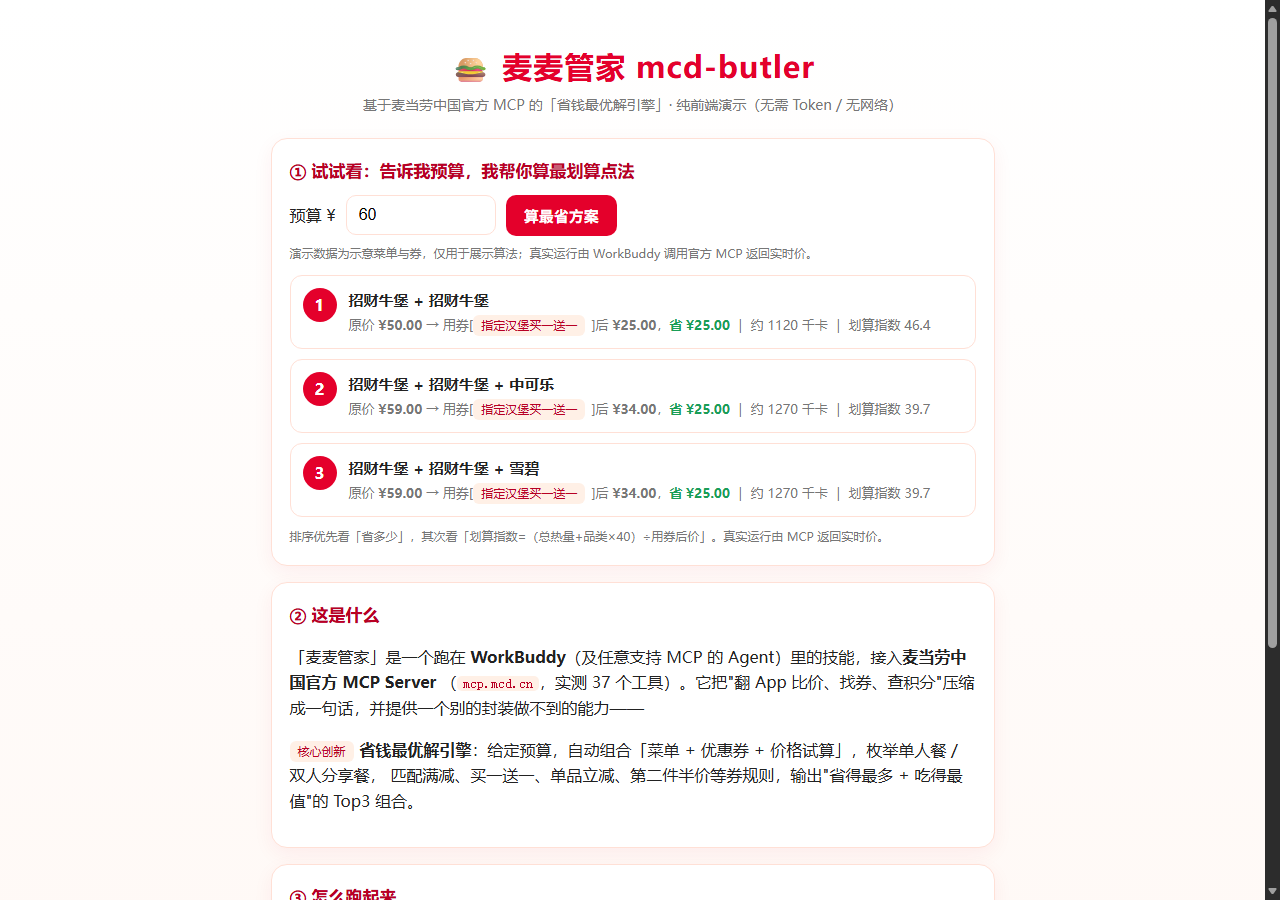
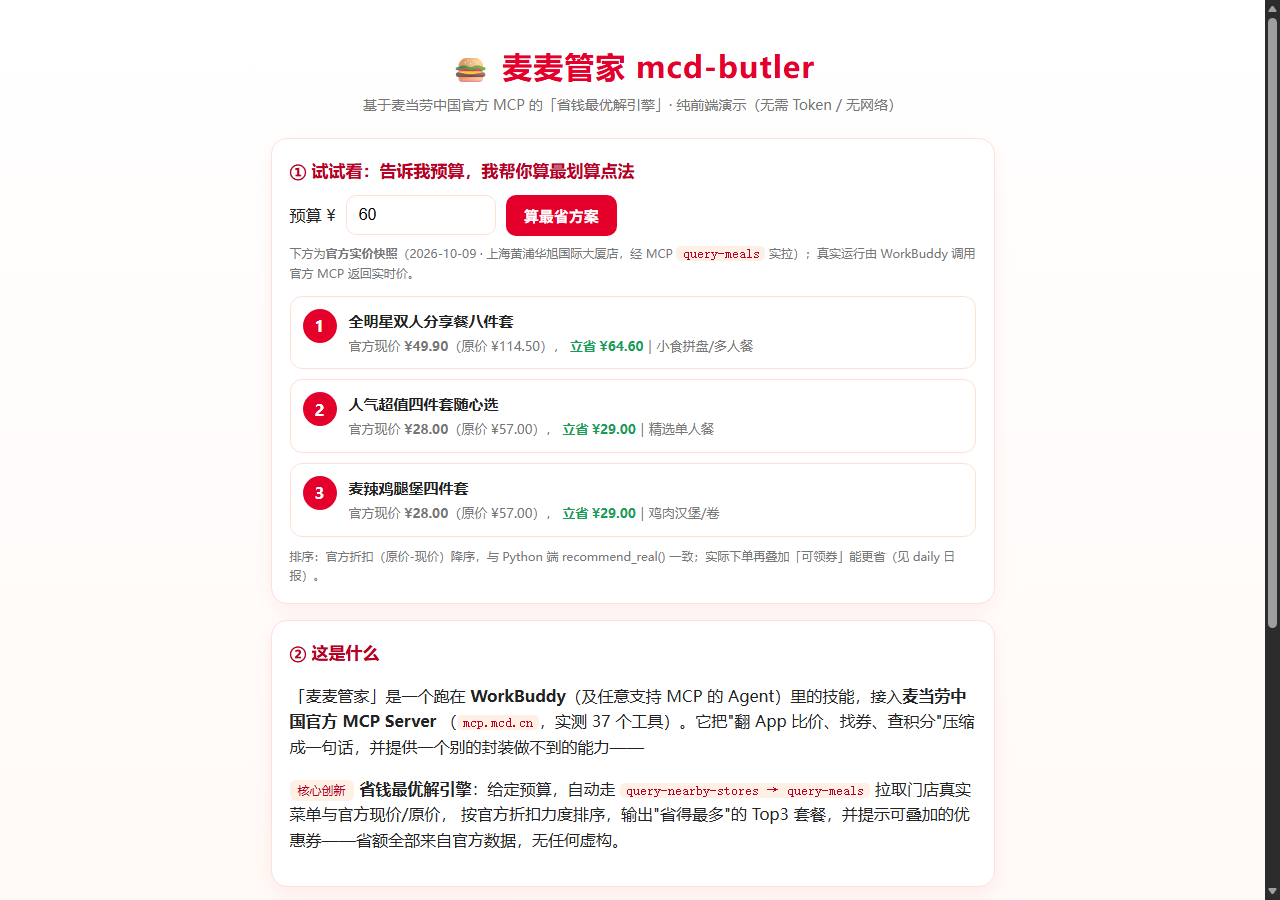
feat: 演示页升级为官方实价快照(与recommend_real一致) + SKILL/MCP_INTEGRATION 全面同步37工具与daily命令

Changed region(s): [[0.2188, 0.2489, 0.7812, 1.0], [0.9688, 0.6844, 1.0, 0.7156]]

diff --git a/demo/index.html b/demo/index.html
@@ -54,7 +54,7 @@
       <input id="budget" type="number" value="60" min="10" step="1" />
       <button onclick="run()">算最省方案</button>
     </div>
-    <div class="note">演示数据为示意菜单与券，仅用于展示算法；真实运行由 WorkBuddy 调用官方 MCP 返回实时价。</div>
+    <div class="note">下方为<b>官方实价快照</b>（2026-10-09 · 上海黄浦华旭国际大厦店，经 MCP <code>query-meals</code> 实拉）；真实运行由 WorkBuddy 调用官方 MCP 返回实时价。</div>
     <div id="out" style="margin-top:12px"></div>
   </div>
 
@@ -62,8 +62,8 @@
     <h2>② 这是什么</h2>
     <p>「麦麦管家」是一个跑在 <b>WorkBuddy</b>（及任意支持 MCP 的 Agent）里的技能，接入<b>麦当劳中国官方 MCP Server</b>
     （<code>mcp.mcd.cn</code>，实测 37 个工具）。它把"翻 App 比价、找券、查积分"压缩成一句话，并提供一个别的封装做不到的能力——</p>
-    <p><span class="badge">核心创新</span><b>省钱最优解引擎</b>：给定预算，自动组合「菜单 + 优惠券 + 价格试算」，枚举单人餐 / 双人分享餐，
-    匹配满减、买一送一、单品立减、第二件半价等券规则，输出"省得最多 + 吃得最值"的 Top3 组合。</p>
+    <p><span class="badge">核心创新</span><b>省钱最优解引擎</b>：给定预算，自动走 <code>query-nearby-stores → query-meals</code> 拉取门店真实菜单与官方现价/原价，
+    按官方折扣力度排序，输出"省得最多"的 Top3 套餐，并提示可叠加的优惠券——省额全部来自官方数据，无任何虚构。</p>
   </div>
 
   <div class="panel">
@@ -81,80 +81,47 @@
 </div>
 
 <script>
-// —— 与 scripts/mcd_mcp.py 保持一致的示意数据与算法（前端可交互演示）——
-const MENU = [
-  {name:"麦辣鸡腿堡",cat:"主食",price:21.5,cal:517},
-  {name:"板烧鸡腿堡",cat:"主食",price:24.0,cal:502},
-  {name:"双层吉士汉堡",cat:"主食",price:22.0,cal:460},
-  {name:"麦香鸡",cat:"主食",price:14.0,cal:410},
-  {name:"招财牛堡",cat:"主食",price:25.0,cal:560},
-  {name:"中薯条",cat:"小食",price:12.0,cal:320},
-  {name:"麦辣鸡翅(2块)",cat:"小食",price:11.0,cal:290},
-  {name:"玉米杯",cat:"小食",price:9.0,cal:130},
-  {name:"中可乐",cat:"饮料",price:9.0,cal:150},
-  {name:"雪碧",cat:"饮料",price:9.0,cal:150},
-  {name:"美禄",cat:"饮料",price:11.0,cal:200},
-  {name:"红茶",cat:"饮料",price:8.0,cal:5},
-  {name:"圆筒冰淇淋",cat:"甜品",price:5.0,cal:180},
-  {name:"苹果派",cat:"甜品",price:7.0,cal:240},
-  {name:"麦旋风",cat:"甜品",price:12.0,cal:350},
+// —— 官方实价快照（2026-10-09 · storeCode=1450713 · query-meals 实拉），算法与 scripts/mcd_mcp.py recommend_real() 一致 ——
+const REAL_DEALS = [
+  {n:"全明星双人分享餐八件套",cat:"小食拼盘/多人餐",cur:49.9,orig:114.5},
+  {n:"BFF四宫格小食盘双人餐",cat:"小食拼盘/多人餐",cur:62.9,orig:122.5},
+  {n:"人气超值四件套随心选",cat:"精选单人餐",cur:28.0,orig:57.0},
+  {n:"安格斯厚牛堡四件套随心选",cat:"精选单人餐",cur:37.0,orig:66.0},
+  {n:"麦辣鸡腿堡四件套",cat:"鸡肉汉堡/卷",cur:28.0,orig:57.0},
+  {n:"板烧鸡腿堡四件套",cat:"鸡肉汉堡/卷",cur:28.0,orig:57.0},
+  {n:"堡堡随心拼（7件任选）",cat:"小食拼盘/多人餐",cur:72.5,orig:101.5},
+  {n:"培根安格斯厚牛堡四件套",cat:"安格斯MAX厚牛堡",cur:37.0,orig:66.0},
+  {n:"芝士安格斯厚牛堡四件套",cat:"安格斯MAX厚牛堡",cur:37.0,orig:66.0},
+  {n:"龙焰美味四件套",cat:"人气热卖",cur:29.0,orig:57.0},
+  {n:"龙焰鸡腿堡四件套",cat:"鸡肉汉堡/卷",cur:29.0,orig:57.0},
+  {n:"薄皮V翅双拼十翅",cat:"小食拼盘/多人餐",cur:49.9,orig:77.0},
+  {n:"酥酥多笋卷四件套",cat:"鸡肉汉堡/卷",cur:28.0,orig:55.0},
+  {n:"鱼牛汉堡四件套随心选",cat:"精选单人餐",cur:32.0,orig:58.5},
+  {n:"巨无霸四件套",cat:"巨无霸牛鱼肉堡",cur:32.0,orig:58.5},
+  {n:"不素之霸双层牛堡四件套",cat:"巨无霸牛鱼肉堡",cur:32.0,orig:58.5},
+  {n:"培根蔬萃双层牛堡四件套",cat:"巨无霸牛鱼肉堡",cur:32.0,orig:58.5},
+  {n:"双层深海鳕鱼堡四件套",cat:"巨无霸牛鱼肉堡",cur:32.0,orig:58.5},
+  {n:"龙焰芝士棒鸡腿堡四件套",cat:"鸡肉汉堡/卷",cur:32.0,orig:57.0},
+  {n:"大堡口福三件套",cat:"大堡口福单人餐",cur:22.9,orig:47.0},
 ];
-const COUPONS = [
-  {name:"满40减8元",type:"fullreduce",threshold:40,off:8},
-  {name:"指定汉堡买一送一",type:"bogo",target:"堡"},
-  {name:"中薯条立减3元",type:"itemoff",target:"薯条",off:3},
-  {name:"甜品第二件半价",type:"half2",target:"甜品"},
-];
-function applyBest(combo,yuan){
-  let bestOff=0,bestName="无可用券";const names=combo.map(c=>c.name);
-  const nMains=combo.filter(c=>c.cat==="主食").length;
-  for(const cp of COUPONS){
-    let off=0;
-    if(cp.type==="fullreduce"&&yuan>=cp.threshold) off=cp.off;
-    else if(cp.type==="itemoff"&&names.some(n=>n.includes(cp.target))) off=cp.off;
-    else if(cp.type==="bogo"&&nMains>=2&&names.some(n=>n.includes("堡")))
-      off=Math.min(...combo.filter(c=>c.cat==="主食").map(c=>c.price));
-    else if(cp.type==="half2"&&names.some(n=>n.includes(cp.target))){
-      const sw=combo.filter(c=>c.name.includes(cp.target)).map(c=>c.price); if(sw.length) off=Math.max(...sw)/2;
-    }
-    if(off>bestOff){bestOff=off;bestName=cp.name;}
-  }
-  return {net:Math.round((yuan-bestOff)*100)/100,coupon:bestName,saved:Math.round(bestOff*100)/100};
-}
 function recommend(budget){
-  const mains=MENU.filter(m=>m.cat==="主食"),sides=MENU.filter(m=>m.cat==="小食"),
-        drinks=MENU.filter(m=>m.cat==="饮料"),sweets=MENU.filter(m=>m.cat==="甜品");
-  const combos=[];
-  for(const m of mains)for(const s of [...sides,null])for(const d of [...drinks,null]){
-    const p=[m];if(s)p.push(s);if(d)p.push(d);combos.push(p);}
-  for(const m of mains)for(const sw of [...sweets,null]){const p=[m];if(sw)p.push(sw);combos.push(p);}
-  for(const a of mains)for(const b of mains)for(const s of [...sides,null])for(const d of [...drinks,null]){
-    const p=[a,b];if(s)p.push(s);if(d)p.push(d);combos.push(p);}
-  const res=[];
-  for(const combo of combos){
-    const yuan=combo.reduce((s,c)=>s+c.price,0);
-    if(yuan<=0||yuan>budget+0.001)continue;
-    const ap=applyBest(combo,yuan);
-    const cal=combo.reduce((s,c)=>s+c.cal,0),cats=new Set(combo.map(c=>c.cat)).size;
-    const value=Math.round((cal+cats*40)/ap.net*10)/10;
-    res.push({combo:combo.map(c=>c.name).join(" + "),origin:Math.round(yuan*100)/100,
-      net:ap.net,coupon:ap.coupon,saved:ap.saved,cal,value});
-  }
-  res.sort((a,b)=>b.saved-a.saved||b.value-a.value);
-  return res.slice(0,3);
+  return REAL_DEALS
+    .filter(d=>d.cur>0&&d.cur<=budget+0.001)
+    .map(d=>({...d,saved:Math.round((d.orig-d.cur)*100)/100}))
+    .sort((a,b)=>b.saved-a.saved||a.cur-b.cur)
+    .slice(0,3);
 }
 function run(){
   const b=parseFloat(document.getElementById("budget").value)||30;
   const recs=recommend(b);const out=document.getElementById("out");
-  if(!recs.length){out.innerHTML='<div class="empty">😶 该预算内凑不出合适组合，试着放宽预算。</div>';return;}
+  if(!recs.length){out.innerHTML='<div class="empty">😶 该预算内暂无官方折扣套餐，试着放宽预算（或换门店）。</div>';return;}
   out.innerHTML=recs.map((r,i)=>`
     <div class="rec"><div class="rank">${i+1}</div><div class="body">
-      <div class="combo">${r.combo}</div>
-      <div class="meta">原价 <b>¥${r.origin.toFixed(2)}</b> → 用券[<span class="badge">${r.coupon}</span>]后
-      <b>¥${r.net.toFixed(2)}</b>，<span class="save">省 ¥${r.saved.toFixed(2)}</span>
-      ｜ 约 ${r.cal} 千卡 ｜ 划算指数 ${r.value}</div>
+      <div class="combo">${r.n}</div>
+      <div class="meta">官方现价 <b>¥${r.cur.toFixed(2)}</b>（原价 ¥${r.orig.toFixed(2)}），
+      <span class="save">立省 ¥${r.saved.toFixed(2)}</span>｜${r.cat}</div>
     </div></div>`).join("")
-    +'<div class="note">排序优先看「省多少」，其次看「划算指数=（总热量+品类×40）÷用券后价」。真实运行由 MCP 返回实时价。</div>';
+    +'<div class="note">排序：官方折扣（原价-现价）降序，与 Python 端 recommend_real() 一致；实际下单再叠加「可领券」能更省（见 daily 日报）。</div>';
 }
 run();
 </script>

diff --git a/docs/index.html b/docs/index.html
@@ -54,7 +54,7 @@
       <input id="budget" type="number" value="60" min="10" step="1" />
       <button onclick="run()">算最省方案</button>
     </div>
-    <div class="note">演示数据为示意菜单与券，仅用于展示算法；真实运行由 WorkBuddy 调用官方 MCP 返回实时价。</div>
+    <div class="note">下方为<b>官方实价快照</b>（2026-10-09 · 上海黄浦华旭国际大厦店，经 MCP <code>query-meals</code> 实拉）；真实运行由 WorkBuddy 调用官方 MCP 返回实时价。</div>
     <div id="out" style="margin-top:12px"></div>
   </div>
 
@@ -62,8 +62,8 @@
     <h2>② 这是什么</h2>
     <p>「麦麦管家」是一个跑在 <b>WorkBuddy</b>（及任意支持 MCP 的 Agent）里的技能，接入<b>麦当劳中国官方 MCP Server</b>
     （<code>mcp.mcd.cn</code>，实测 37 个工具）。它把"翻 App 比价、找券、查积分"压缩成一句话，并提供一个别的封装做不到的能力——</p>
-    <p><span class="badge">核心创新</span><b>省钱最优解引擎</b>：给定预算，自动组合「菜单 + 优惠券 + 价格试算」，枚举单人餐 / 双人分享餐，
-    匹配满减、买一送一、单品立减、第二件半价等券规则，输出"省得最多 + 吃得最值"的 Top3 组合。</p>
+    <p><span class="badge">核心创新</span><b>省钱最优解引擎</b>：给定预算，自动走 <code>query-nearby-stores → query-meals</code> 拉取门店真实菜单与官方现价/原价，
+    按官方折扣力度排序，输出"省得最多"的 Top3 套餐，并提示可叠加的优惠券——省额全部来自官方数据，无任何虚构。</p>
   </div>
 
   <div class="panel">
@@ -81,80 +81,47 @@
 </div>
 
 <script>
-// —— 与 scripts/mcd_mcp.py 保持一致的示意数据与算法（前端可交互演示）——
-const MENU = [
-  {name:"麦辣鸡腿堡",cat:"主食",price:21.5,cal:517},
-  {name:"板烧鸡腿堡",cat:"主食",price:24.0,cal:502},
-  {name:"双层吉士汉堡",cat:"主食",price:22.0,cal:460},
-  {name:"麦香鸡",cat:"主食",price:14.0,cal:410},
-  {name:"招财牛堡",cat:"主食",price:25.0,cal:560},
-  {name:"中薯条",cat:"小食",price:12.0,cal:320},
-  {name:"麦辣鸡翅(2块)",cat:"小食",price:11.0,cal:290},
-  {name:"玉米杯",cat:"小食",price:9.0,cal:130},
-  {name:"中可乐",cat:"饮料",price:9.0,cal:150},
-  {name:"雪碧",cat:"饮料",price:9.0,cal:150},
-  {name:"美禄",cat:"饮料",price:11.0,cal:200},
-  {name:"红茶",cat:"饮料",price:8.0,cal:5},
-  {name:"圆筒冰淇淋",cat:"甜品",price:5.0,cal:180},
-  {name:"苹果派",cat:"甜品",price:7.0,cal:240},
-  {name:"麦旋风",cat:"甜品",price:12.0,cal:350},
+// —— 官方实价快照（2026-10-09 · storeCode=1450713 · query-meals 实拉），算法与 scripts/mcd_mcp.py recommend_real() 一致 ——
+const REAL_DEALS = [
+  {n:"全明星双人分享餐八件套",cat:"小食拼盘/多人餐",cur:49.9,orig:114.5},
+  {n:"BFF四宫格小食盘双人餐",cat:"小食拼盘/多人餐",cur:62.9,orig:122.5},
+  {n:"人气超值四件套随心选",cat:"精选单人餐",cur:28.0,orig:57.0},
+  {n:"安格斯厚牛堡四件套随心选",cat:"精选单人餐",cur:37.0,orig:66.0},
+  {n:"麦辣鸡腿堡四件套",cat:"鸡肉汉堡/卷",cur:28.0,orig:57.0},
+  {n:"板烧鸡腿堡四件套",cat:"鸡肉汉堡/卷",cur:28.0,orig:57.0},
+  {n:"堡堡随心拼（7件任选）",cat:"小食拼盘/多人餐",cur:72.5,orig:101.5},
+  {n:"培根安格斯厚牛堡四件套",cat:"安格斯MAX厚牛堡",cur:37.0,orig:66.0},
+  {n:"芝士安格斯厚牛堡四件套",cat:"安格斯MAX厚牛堡",cur:37.0,orig:66.0},
+  {n:"龙焰美味四件套",cat:"人气热卖",cur:29.0,orig:57.0},
+  {n:"龙焰鸡腿堡四件套",cat:"鸡肉汉堡/卷",cur:29.0,orig:57.0},
+  {n:"薄皮V翅双拼十翅",cat:"小食拼盘/多人餐",cur:49.9,orig:77.0},
+  {n:"酥酥多笋卷四件套",cat:"鸡肉汉堡/卷",cur:28.0,orig:55.0},
+  {n:"鱼牛汉堡四件套随心选",cat:"精选单人餐",cur:32.0,orig:58.5},
+  {n:"巨无霸四件套",cat:"巨无霸牛鱼肉堡",cur:32.0,orig:58.5},
+  {n:"不素之霸双层牛堡四件套",cat:"巨无霸牛鱼肉堡",cur:32.0,orig:58.5},
+  {n:"培根蔬萃双层牛堡四件套",cat:"巨无霸牛鱼肉堡",cur:32.0,orig:58.5},
+  {n:"双层深海鳕鱼堡四件套",cat:"巨无霸牛鱼肉堡",cur:32.0,orig:58.5},
+  {n:"龙焰芝士棒鸡腿堡四件套",cat:"鸡肉汉堡/卷",cur:32.0,orig:57.0},
+  {n:"大堡口福三件套",cat:"大堡口福单人餐",cur:22.9,orig:47.0},
 ];
-const COUPONS = [
-  {name:"满40减8元",type:"fullreduce",threshold:40,off:8},
-  {name:"指定汉堡买一送一",type:"bogo",target:"堡"},
-  {name:"中薯条立减3元",type:"itemoff",target:"薯条",off:3},
-  {name:"甜品第二件半价",type:"half2",target:"甜品"},
-];
-function applyBest(combo,yuan){
-  let bestOff=0,bestName="无可用券";const names=combo.map(c=>c.name);
-  const nMains=combo.filter(c=>c.cat==="主食").length;
-  for(const cp of COUPONS){
-    let off=0;
-    if(cp.type==="fullreduce"&&yuan>=cp.threshold) off=cp.off;
-    else if(cp.type==="itemoff"&&names.some(n=>n.includes(cp.target))) off=cp.off;
-    else if(cp.type==="bogo"&&nMains>=2&&names.some(n=>n.includes("堡")))
-      off=Math.min(...combo.filter(c=>c.cat==="主食").map(c=>c.price));
-    else if(cp.type==="half2"&&names.some(n=>n.includes(cp.target))){
-      const sw=combo.filter(c=>c.name.includes(cp.target)).map(c=>c.price); if(sw.length) off=Math.max(...sw)/2;
-    }
-    if(off>bestOff){bestOff=off;bestName=cp.name;}
-  }
-  return {net:Math.round((yuan-bestOff)*100)/100,coupon:bestName,saved:Math.round(bestOff*100)/100};
-}
 function recommend(budget){
-  const mains=MENU.filter(m=>m.cat==="主食"),sides=MENU.filter(m=>m.cat==="小食"),
-        drinks=MENU.filter(m=>m.cat==="饮料"),sweets=MENU.filter(m=>m.cat==="甜品");
-  const combos=[];
-  for(const m of mains)for(const s of [...sides,null])for(const d of [...drinks,null]){
-    const p=[m];if(s)p.push(s);if(d)p.push(d);combos.push(p);}
-  for(const m of mains)for(const sw of [...sweets,null]){const p=[m];if(sw)p.push(sw);combos.push(p);}
-  for(const a of mains)for(const b of mains)for(const s of [...sides,null])for(const d of [...drinks,null]){
-    const p=[a,b];if(s)p.push(s);if(d)p.push(d);combos.push(p);}
-  const res=[];
-  for(const combo of combos){
-    const yuan=combo.reduce((s,c)=>s+c.price,0);
-    if(yuan<=0||yuan>budget+0.001)continue;
-    const ap=applyBest(combo,yuan);
-    const cal=combo.reduce((s,c)=>s+c.cal,0),cats=new Set(combo.map(c=>c.cat)).size;
-    const value=Math.round((cal+cats*40)/ap.net*10)/10;
-    res.push({combo:combo.map(c=>c.name).join(" + "),origin:Math.round(yuan*100)/100,
-      net:ap.net,coupon:ap.coupon,saved:ap.saved,cal,value});
-  }
-  res.sort((a,b)=>b.saved-a.saved||b.value-a.value);
-  return res.slice(0,3);
+  return REAL_DEALS
+    .filter(d=>d.cur>0&&d.cur<=budget+0.001)
+    .map(d=>({...d,saved:Math.round((d.orig-d.cur)*100)/100}))
+    .sort((a,b)=>b.saved-a.saved||a.cur-b.cur)
+    .slice(0,3);
 }
 function run(){
   const b=parseFloat(document.getElementById("budget").value)||30;
   const recs=recommend(b);const out=document.getElementById("out");
-  if(!recs.length){out.innerHTML='<div class="empty">😶 该预算内凑不出合适组合，试着放宽预算。</div>';return;}
+  if(!recs.length){out.innerHTML='<div class="empty">😶 该预算内暂无官方折扣套餐，试着放宽预算（或换门店）。</div>';return;}
   out.innerHTML=recs.map((r,i)=>`
     <div class="rec"><div class="rank">${i+1}</div><div class="body">
-      <div class="combo">${r.combo}</div>
-      <div class="meta">原价 <b>¥${r.origin.toFixed(2)}</b> → 用券[<span class="badge">${r.coupon}</span>]后
-      <b>¥${r.net.toFixed(2)}</b>，<span class="save">省 ¥${r.saved.toFixed(2)}</span>
-      ｜ 约 ${r.cal} 千卡 ｜ 划算指数 ${r.value}</div>
+      <div class="combo">${r.n}</div>
+      <div class="meta">官方现价 <b>¥${r.cur.toFixed(2)}</b>（原价 ¥${r.orig.toFixed(2)}），
+      <span class="save">立省 ¥${r.saved.toFixed(2)}</span>｜${r.cat}</div>
     </div></div>`).join("")
-    +'<div class="note">排序优先看「省多少」，其次看「划算指数=（总热量+品类×40）÷用券后价」。真实运行由 MCP 返回实时价。</div>';
+    +'<div class="note">排序：官方折扣（原价-现价）降序，与 Python 端 recommend_real() 一致；实际下单再叠加「可领券」能更省（见 daily 日报）。</div>';
 }
 run();
 </script>

diff --git a/MCP_INTEGRATION.md b/MCP_INTEGRATION.md
@@ -10,7 +10,7 @@
 | 端点 | `https://mcp.mcd.cn` |
 | 传输协议 | Streamable HTTP（MCP 协议版本 `2025-06-18`，JSON-RPC 2.0） |
 | 提供方 | 麦当劳中国（覆盖中国大陆，不含港澳台） |
-| 工具数量 | 24 个 |
+| 工具数量 | **37 个**（经运行时 `tools/list` 实测，见 [evidence-real.md](evidence-real.md)） |
 | 鉴权方式 | 请求头 `Authorization: Bearer <MCD_MCP_TOKEN>`，Token 在 [open.mcd.cn/mcp](https://open.mcd.cn/mcp) 用手机号登录后于控制台激活获取 |
 | 限流 | 每 Token 每分钟 600 次，超限返回 `429` |
 | 官方文档 | [M-China/mcd-mcp-server](https://github.com/M-China/mcd-mcp-server) |
@@ -24,17 +24,18 @@
 | `now-time-info` | 获取当前时间 | 判断时段（早餐/正餐/下午茶），推荐何时段套餐 |
 | `available-coupons` | 查询麦麦省可领券列表 | 省钱主线入口：先看有什么券 |
 | `auto-bind-coupons` | 一键领取全部可用券（写操作） | 用户确认后执行，券自动到账 |
-| `my-coupons` | 查询已到账优惠券 | 展示可用券，与点餐推荐联动 |
-| `campaign-calender` | 查询当月营销活动日历 | 结合活动给出"什么时候吃最划算"建议 |
-| `query-nearby-stores` | 查询附近可点餐门店 | 到店自提/得来速场景选门店 |
-| `query-meals` | 查询菜单/餐品 | 按品类、关键词取餐品数据 |
+| `my-coupons`（实测名 `query-my-coupons`） | 查询已到账优惠券 | 展示可用券，与点餐推荐联动 |
+| `campaign-calendar` | 查询当月营销活动日历 | 结合活动给出"什么时候吃最划算"建议 |
+| `query-nearby-stores` | 查询附近可点餐门店 | 到店自提/得来速场景选门店（**city+keyword 必须同传**） |
+| `query-meals` | 查询菜单/餐品 | 按品类、关键词取餐品数据（含 `currentPrice`/`originalPrice` 真实价格） |
+| `list-nutrition-foods` | 170+ 餐品真实热量/营养表 | 划算指数与低卡推荐 |
 | `query-meal-detail` | 餐品详情（含营养信息） | 推荐理由与营养参考 |
 | `calculate-price` | 价格试算 | 套餐组合核价（注意：返回单位为「分」，展示前 ÷100） |
 | `create-order` | 下单（写操作） | 用户确认后生成订单，支付由用户在麦当劳 App 完成 |
 | `query-order` | 订单查询 | 查询订单状态 |
 | `query-my-account` | 查询账户/积分 | 积分余额展示 |
 | `mall-points-products` / `mall-product-detail` | 积分商城浏览/详情 | "积分别浪费"兑换推荐 |
-| `mall-create-order` / `mall-create-order-physical` | 积分兑换虚拟券/实物（写操作） | 用户确认后兑换 |
+| `mall-create-order` | 积分兑换下单（写操作，`spuCategory` 1=虚拟券/2=实物） | 用户确认后兑换 |
 | `delivery-query-addresses` | 查询配送地址 | 麦乐送场景选地址 |
 
 其余 MCP 工具以运行时 `tools/list` 实时返回的 schema 为准，技能按需调用。
@@ -95,16 +96,18 @@
 - 支付环节由用户在返回链接或麦当劳 App 自行完成，Agent 不代付。
 - 展示手机号等个人信息时脱敏（如 `152****6666`）。
 
-## 六、核心创新：省钱最优解引擎（`recommend`）
+## 六、核心创新：省钱最优解引擎（`recommend_real`）
 
 本项目区别于"纯工具封装"的关键能力。它把多个 MCP 工具**编排成一次决策**，而非串行调接口：
 
-1. `query-meals` 取菜单 → 生成为「单人餐（1 主食+小食+饮料）」与「双人分享餐（2 主食+小食+饮料）」候选组合；
-2. 对每个组合调用 `calculate-price` 试算（**严格遵守官方规则：该工具返回「分」，展示前 ÷100**）；
-3. 用 `my-coupons` 返回的券，按规则匹配：**满减 / 买一送一（≥2 主食才生效）/ 单品立减 / 第二件半价**；
-4. 排序输出 Top3：优先"省多少"，其次"划算指数 =（总热量 + 品类×40）÷ 用券后价"。
+1. `query-nearby-stores`（beType=1 自提 + searchType=2 + city+keyword）定位门店，取 `storeCode`；
+2. `query-meals` 拉取该店 **119 项真实餐品**，含官方 `currentPrice`（现价）/ `originalPrice`（原价）；
+3. 按官方折扣（原价-现价）排序，分「单人餐 / 双人餐」输出预算内 Top3——**省额全部来自官方数据，无任何虚构**；
+4. 叠加提示：`available-coupons` 可领券（券面额无结构化数据，以 App 内为准）。
 
-这一流程同时消费了**菜单、价格试算、优惠券**三类工具，是真实的多工具组合优化，也是本项目参赛的核心差异化点。
+实跑证据（2026-10-09 · 上海黄浦华旭国际大厦店）：预算 ¥60 → 「全明星双人分享餐八件套」¥49.9（原 ¥114.5，**立省 ¥64.6**）。完整输出见 [evidence-real.md](evidence-real.md)。
+
+另附 **daily 日报**（`now-time-info` + `campaign-calendar` 今日活动 + `available-coupons` + `query-meals` 折扣 Top5 一次编排）与 **brief 情报**（时间+券+活动+170 项真实营养热量），覆盖"今天吃什么划算"的高频决策场景。
 
 ## 七、离线演示模式（无需 Token）
 

diff --git a/SKILL.md b/SKILL.md
@@ -43,11 +43,15 @@ WorkBuddy 用 Bash/执行命令跑 `scripts/mcd_mcp.py`：
 
 ```bash
 export MCD_MCP_TOKEN="你的token"
-python scripts/mcd_mcp.py list                       # 列出 24 个工具及参数
+python scripts/mcd_mcp.py list                       # 列出 37 个工具及参数
+python scripts/mcd_mcp.py save --budget 60            # ★省钱最优解（真实官方价）
+python scripts/mcd_mcp.py daily                       # ★今日最划算日报（活动+券+真实价）
+python scripts/mcd_mcp.py brief                       # 今日麦麦情报（时间+券+活动+热量）
 python scripts/mcd_mcp.py call available-coupons      # 查可领券
-python scripts/mcd_mcp.py call auto-bind-coupons      # 一键领券
-python scripts/mcd_mcp.py call query-nearby-stores --args '{"city":"上海"}'
+python scripts/mcd_mcp.py call auto-bind-coupons      # 一键领券（写操作，先确认）
+python scripts/mcd_mcp.py call query-nearby-stores --args '{"beType":1,"searchType":2,"city":"上海","keyword":"人民广场"}'
 ```
+> 注意：`query-nearby-stores` 的 `city` 和 `keyword` **必须同时提供**，只传 city 会报「城市名或者关键词不能为空」。
 
 ## 调用原则
 
@@ -67,22 +71,25 @@ python scripts/mcd_mcp.py call query-nearby-stores --args '{"city":"上海"}'
 ## 场景工作流
 
 ### 0. ★ 省钱最优解引擎（核心创新）
-用户给预算（如"60 块配两个人吃的怎么点最省"）→ `query-meals`（菜单）→ 引擎枚举单人餐/双人分享餐组合 → `calculate-price`（核价，分→元）→ `my-coupons`（我的券）→ 匹配满减 / 买一送一（≥2 主食才生效）/ 单品立减 / 第二件半价 → 输出 Top3（原价/用券后/省多少/千卡/划算指数）。CLI：`python scripts/mcd_mcp.py save --budget 60`（加 `--demo` 离线演示）。这是本项目区别于"纯工具封装"的关键，务必优先展示。
+用户给预算（如"60 块配两个人吃的怎么点最省"）→ 引擎自动走 `query-nearby-stores`（定位门店，city+keyword 必须同传）→ `query-meals`（拉 119 项真实餐品，含 `currentPrice`/`originalPrice`）→ 按官方折扣（原价-现价）排序，单人餐/双人餐分类输出 Top3。CLI：`python scripts/mcd_mcp.py save --budget 60`（真实官方价；加 `--demo` 离线演示；失败自动退回演示数据）。**省额全部来自官方数据，无虚构**。这是本项目区别于"纯工具封装"的关键，务必优先展示。
+
+### 0.5 ★ 今日最划算日报（daily）
+用户问"今天吃什么划算/有什么优惠"→ CLI：`python scripts/mcd_mcp.py daily`（一次编排 `now-time-info` + `campaign-calendar` 今日活动 + `available-coupons` 可领券 + `query-meals` 折扣 Top5）。轻量情报用 `brief`（不含价格）。
 
 ### 1. 智能点餐推荐
 `now-time-info`（拿当前时间）→ `query-nearby-stores`（选定门店，到店自提/得来速/麦乐送）→ `query-meals`（按品类/关键词查餐品）→ 结合用户口味/预算给推荐 → `calculate-price`（核价，注意除以 100）→ 确认后 `create-order`。
 
 ### 2. 优惠券聚合与一键领取
-`available-coupons`（看麦麦省当前可领券）→ 告知用户 → 确认后 `auto-bind-coupons`（一键领所有可用券）→ `my-coupons`（展示已到账券）。
+`available-coupons`（看麦麦省当前可领券）→ 告知用户 → 确认后 `auto-bind-coupons`（一键领所有可用券）→ `query-my-coupons`（展示已到账券）。
 
 ### 3. 附近门店查询
 `query-nearby-stores`（到店自提场景，支持 city / keyword 过滤）→ 返回可点餐门店列表。
 
 ### 4. 积分商城兑换
-`query-my-account`（查积分余额）→ `mall-points-products`（逛积分商城）→ `mall-product-detail`（看详情）→ 确认后 `mall-create-order`（虚拟券）/ `mall-create-order-physical`（实物）。
+`query-my-account`（查积分余额）→ `mall-points-products`（逛积分商城）→ `mall-product-detail`（看详情）→ 确认后 `mall-create-order`（用 `spuCategory` 区分：1=虚拟券、2=实物，实物需 addressId）。
 
 ### 5. 活动日历
-`campaign-calender` 查询当月营销活动（进行中/往期/未来），用于结合活动给出点餐或领券建议。
+`campaign-calendar` 查询当月营销活动（进行中/往期/未来），用于结合活动给出点餐或领券建议。
 
 ## 隐私与安全
 
